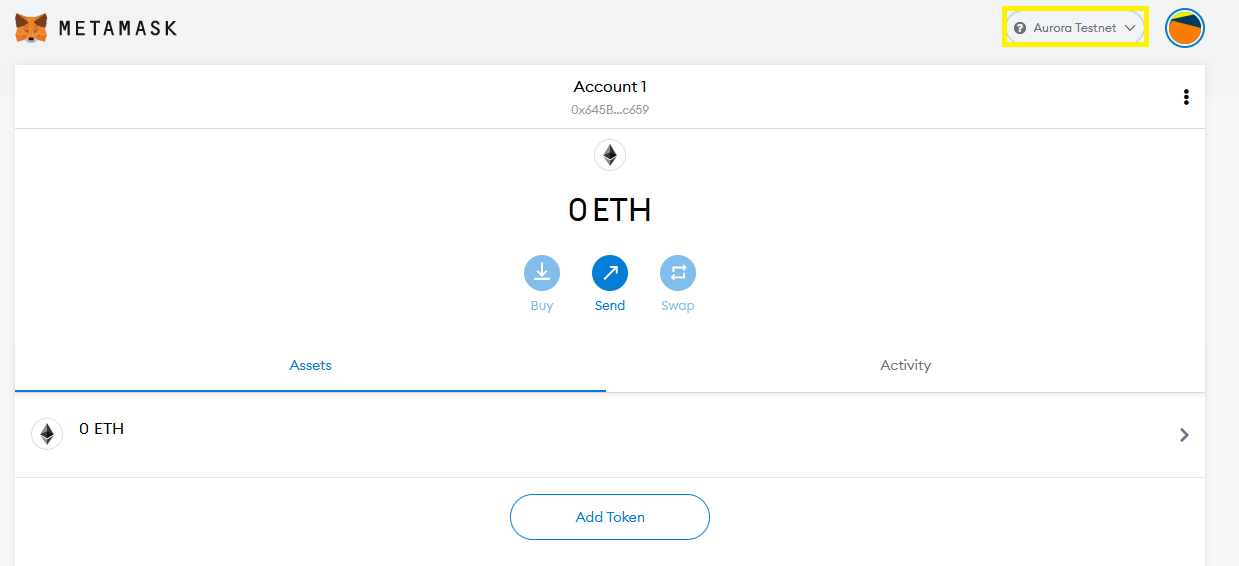
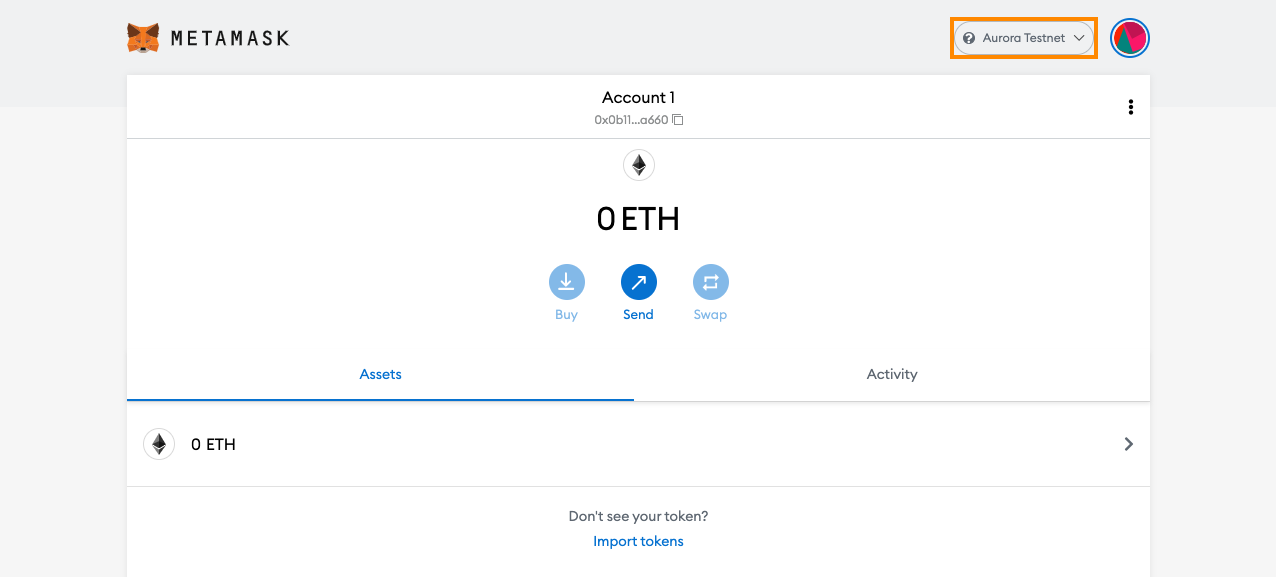
updatea metamask.html

diff --git a/content/learn/connect/metamask.md b/content/learn/connect/metamask.md
@@ -13,15 +13,19 @@ If you need help getting set up with MetaMask in the first place, please see [th
 
 ## Connecting to the Bridge front-end
 
-Aurora is still a work in progress, so our bridge is currently only working with the Ropsten Testnet (an Ethereum test network).
+Aurora is still a work in progress, so our bridge is currently only working with the Goerli Testnet (an Ethereum test network).
 For the remainder of the tutorial we will focus on adding the Aurora Testnet to MetaMask.
 
-Before we begin, ensure that you have the Ropsten network selected in MetaMask.
-In the MetaMask UI click the network selection drop-down in the top right, then click `Ropsten test network`.
+Before we begin, ensure that you have the Goerli network selected in MetaMask.
+In the MetaMask UI click the network selection drop-down in the top right, then click `Goerli test network`.
 
-![metamask-ropsten-network-select](../../_img/metamask_ropsten_network_select.png)
+![metamask-goerli-network-select](../../_img/metamask_goerli_network_select.png)
 
-Go to [the Bridge webpage](https://testnet.aurora.dev/bridge) and click the `Connect wallet` button in the top right.
+Go to [the Bridge webpage](https://testnet.aurora.dev/bridge) and click the `New transfer` button in the top right.
+
+![bridge_new_transfer](../../_img/bridge_new_transfer.png)
+
+You will be taken to the wallet connection page, click the `Connect wallet` button.
 
 ![bridge-connect-wallet](../../_img/bridge_connect_wallet.png)
 
@@ -29,14 +33,17 @@ In the pop-up MetaMask window click `Next` then `Connect`.
 
 ![bridge-connect-with-metamask](../../_img/bridge_connect_with_metamask.png)
 
-If you see `Unsupported` in the top right corner of the Bridge page, make sure you have the Ropsten network selected in MetaMask (per the previous steps),
-otherwise you should now see `Ropsten Testnet` in the top right corner.
+If you see `Unsupported network` in the Type of transfer on the Bridge page, make sure you have the Goerli network selected in MetaMask (per the previous steps).
 
-![bridge-ropsten-connected](../../_img/bridge_ropsten_connected.png)
+![bridge-unsupported-network](../../_img/bridge_unsupported_network.png)
 
-To connect MetaMask with Aurora, click the `<>` arrows between `Ropsten Testnet` and `Aurora Testnet`.
+Otherwise you should now see the Deposit to Aurora surrounded by a green border.
 
-![bridge-switch-ropsten-to-aurora](../../_img/bridge_switch_ropsten_to_aurora.png)
+![bridge-goerli-connected](../../_img/bridge_goerli_connected.png)
+
+To connect MetaMask with Aurora, click the `Withdraw from Aurora` in the Type of transfer.
+
+![bridge-switch-goerli-to-aurora](../../_img/bridge_switch_goerli_to_aurora.png)
 
 In the MetaMask pop-up window click `Approve` then `Switch network`.
 
@@ -48,9 +55,9 @@ That's it! If you look in the MetaMask UI you will see that you are now connecte
 
 ## Next steps
 
-While you are on the bridge page, why not [transfer some ETH from your account on Ropsten to your account on Aurora]?
+While you are on the bridge page, why not [transfer some ETH from your account on Goerli to your account on Aurora]?
 Or if you want to try deploing a smart contract, check out the [tutorial using Remix with MetaMask].
 
 [tutorial under the Develop tab]: ../../develop/start/metamask.md
-[transfer some ETH from your account on Ropsten to your account on Aurora]: ../bridge/eth.md
+[transfer some ETH from your account on Goerli to your account on Aurora]: ../bridge/eth.md
 [tutorial using Remix with MetaMask]: /develop/start/metamask.html#deploying-an-erc-20-token-using-remix
